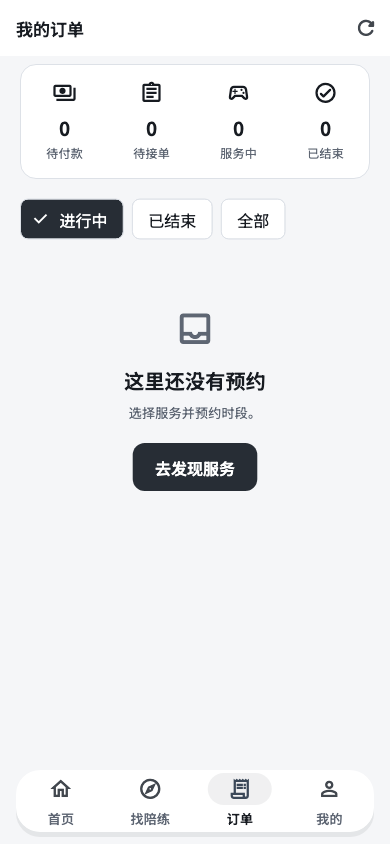
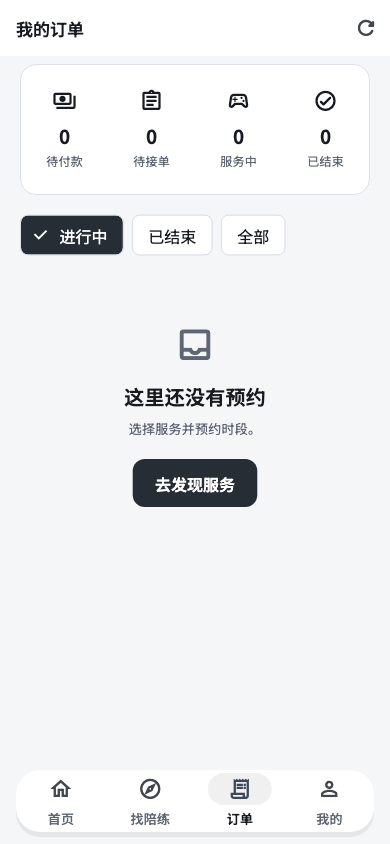
Improve booking accessibility and document UI references

diff --git a/apps/mobile/lib/booking.dart b/apps/mobile/lib/booking.dart
@@ -446,49 +446,52 @@ class _BookingPageState extends State<BookingPage> {
                           d.year == day.year &&
                           d.month == day.month &&
                           d.day == day.day;
-                      return InkWell(
-                        onTap: () {
-                          setState(() => day = d);
-                          if (playerId != null) loadSlots();
-                        },
-                        borderRadius: BorderRadius.circular(12),
-                        child: Container(
-                          width: 96,
-                          padding: const EdgeInsets.symmetric(vertical: 11),
-                          decoration: BoxDecoration(
-                            color: picked ? ink : Colors.white,
-                            borderRadius: BorderRadius.circular(12),
-                            border: Border.all(color: picked ? ink : rule),
-                          ),
-                          child: Column(
-                            children: [
-                              Text(
-                                i == 0
-                                    ? '明天'
-                                    : [
-                                        '周一',
-                                        '周二',
-                                        '周三',
-                                        '周四',
-                                        '周五',
-                                        '周六',
-                                        '周日',
-                                      ][d.weekday - 1],
-                                style: TextStyle(
-                                  color: picked ? Colors.white70 : muted,
-                                  fontSize: 14,
+                      return Semantics(
+                        selected: picked,
+                        child: InkWell(
+                          onTap: () {
+                            setState(() => day = d);
+                            if (playerId != null) loadSlots();
+                          },
+                          borderRadius: BorderRadius.circular(12),
+                          child: Container(
+                            width: 96,
+                            padding: const EdgeInsets.symmetric(vertical: 11),
+                            decoration: BoxDecoration(
+                              color: picked ? ink : Colors.white,
+                              borderRadius: BorderRadius.circular(12),
+                              border: Border.all(color: picked ? ink : rule),
+                            ),
+                            child: Column(
+                              children: [
+                                Text(
+                                  i == 0
+                                      ? '明天'
+                                      : [
+                                          '周一',
+                                          '周二',
+                                          '周三',
+                                          '周四',
+                                          '周五',
+                                          '周六',
+                                          '周日',
+                                        ][d.weekday - 1],
+                                  style: TextStyle(
+                                    color: picked ? Colors.white70 : muted,
+                                    fontSize: 14,
+                                  ),
                                 ),
-                              ),
-                              const SizedBox(height: 5),
-                              Text(
-                                '${d.month}/${d.day}',
-                                style: TextStyle(
-                                  color: picked ? Colors.white : ink,
-                                  fontSize: 17,
-                                  fontWeight: FontWeight.w600,
+                                const SizedBox(height: 5),
+                                Text(
+                                  '${d.month}/${d.day}',
+                                  style: TextStyle(
+                                    color: picked ? Colors.white : ink,
+                                    fontSize: 17,
+                                    fontWeight: FontWeight.w600,
+                                  ),
                                 ),
-                              ),
-                            ],
+                              ],
+                            ),
                           ),
                         ),
                       );
@@ -531,36 +534,51 @@ class _BookingPageState extends State<BookingPage> {
                       final picked =
                               selectedSlot?['startAt'] == slot['startAt'],
                           available = slot['available'] == true;
+                      final time = when(slot['startAt'], onlyTime: true);
                       return SizedBox(
                         width: 102,
-                        child: OutlinedButton(
-                          onPressed: available
+                        child: Semantics(
+                          label: available ? time : '$time 已占用',
+                          button: true,
+                          enabled: available,
+                          selected: picked,
+                          onTap: available
                               ? () => setState(() => selectedSlot = slot)
                               : null,
-                          style: OutlinedButton.styleFrom(
-                            backgroundColor: picked ? sage : Colors.white,
-                            side: BorderSide(color: picked ? forest : rule),
-                          ),
-                          child: Column(
-                            mainAxisSize: MainAxisSize.min,
-                            children: [
-                              Text(
-                                when(slot['startAt'], onlyTime: true),
-                                style: TextStyle(
-                                  fontSize: 15,
-                                  color: picked
-                                      ? forest
-                                      : available
-                                      ? ink
-                                      : muted,
-                                ),
+                          child: ExcludeSemantics(
+                            child: OutlinedButton(
+                              onPressed: available
+                                  ? () => setState(() => selectedSlot = slot)
+                                  : null,
+                              style: OutlinedButton.styleFrom(
+                                backgroundColor: picked ? sage : Colors.white,
+                                side: BorderSide(color: picked ? forest : rule),
                               ),
-                              if (!available)
-                                const Text(
-                                  '已占用',
-                                  style: TextStyle(fontSize: 14, color: muted),
-                                ),
-                            ],
+                              child: Column(
+                                mainAxisSize: MainAxisSize.min,
+                                children: [
+                                  Text(
+                                    time,
+                                    style: TextStyle(
+                                      fontSize: 15,
+                                      color: picked
+                                          ? forest
+                                          : available
+                                          ? ink
+                                          : muted,
+                                    ),
+                                  ),
+                                  if (!available)
+                                    const Text(
+                                      '已占用',
+                                      style: TextStyle(
+                                        fontSize: 14,
+                                        color: muted,
+                                      ),
+                                    ),
+                                ],
+                              ),
+                            ),
                           ),
                         ),
                       );

diff --git a/apps/mobile/test/flows_test.dart b/apps/mobile/test/flows_test.dart
@@ -83,6 +83,16 @@ void main() {
       await tester.ensureVisible(find.text('20:00'));
       await tester.tap(find.text('20:00'));
       await tester.pumpAndSettle();
+      expect(
+        find.byWidgetPredicate(
+          (widget) =>
+              widget is Semantics &&
+              widget.properties.label == '20:00' &&
+              widget.properties.button == true &&
+              widget.properties.selected == true,
+        ),
+        findsOneWidget,
+      );
       await tester.ensureVisible(find.byType(TextFormField).first);
       await tester.enterText(find.byType(TextFormField).first, 'demo-contact');
       await tester.enterText(find.byType(TextFormField).at(1), 'Demo#1234');
